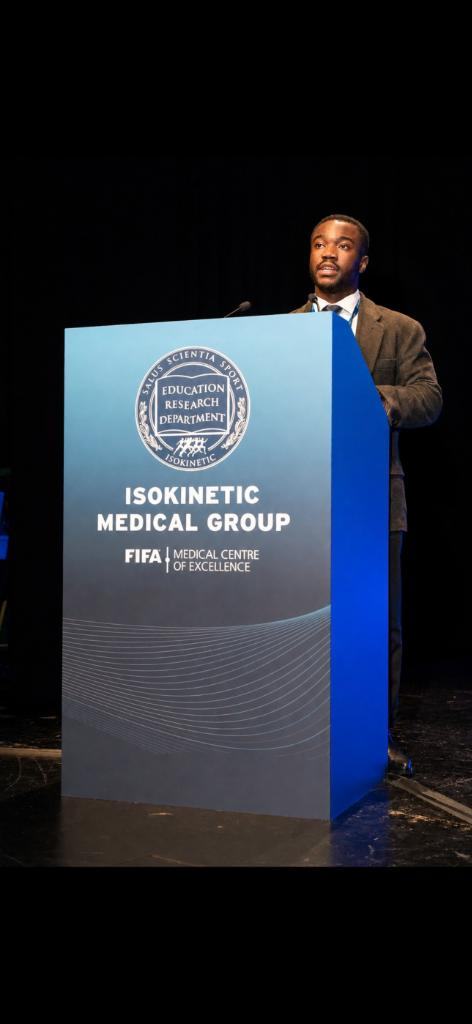
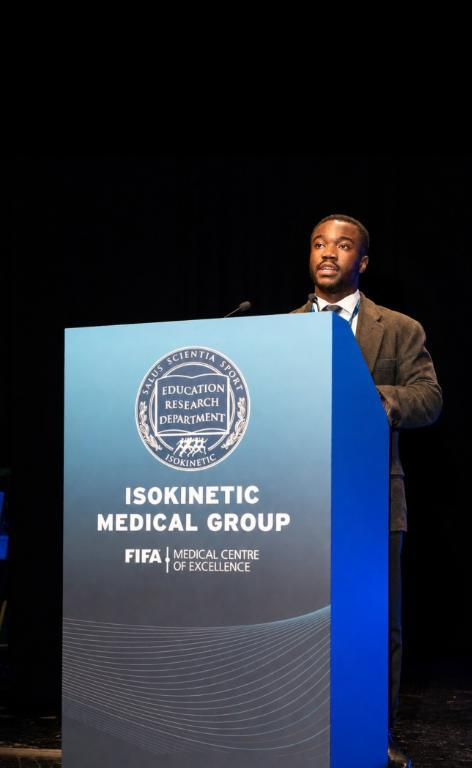
Fix NFL image to cover properly and crop bottom

diff --git a/index.html b/index.html
@@ -154,7 +154,7 @@
       <a href="https://www.tandfonline.com/doi/full/10.1080/00913847.2026.2682120#abstract" target="_blank" style="text-decoration: none; color: inherit; display: block; margin-top: 2rem;">
         <div class="project-card">
           <div class="project-image">
-            <img src="images/achilles-nfl-new.jpg" alt="Achilles Tendon in the NFL" style="object-fit: contain; background: #000;">
+            <img src="images/achilles-nfl-new.jpg" alt="Achilles Tendon in the NFL" style="height: 400px; object-fit: cover; object-position: center top;">
           </div>
           <div class="project-content">
             <h4>Impact of Achilles Tendon Ruptures in the NFL</h4>
